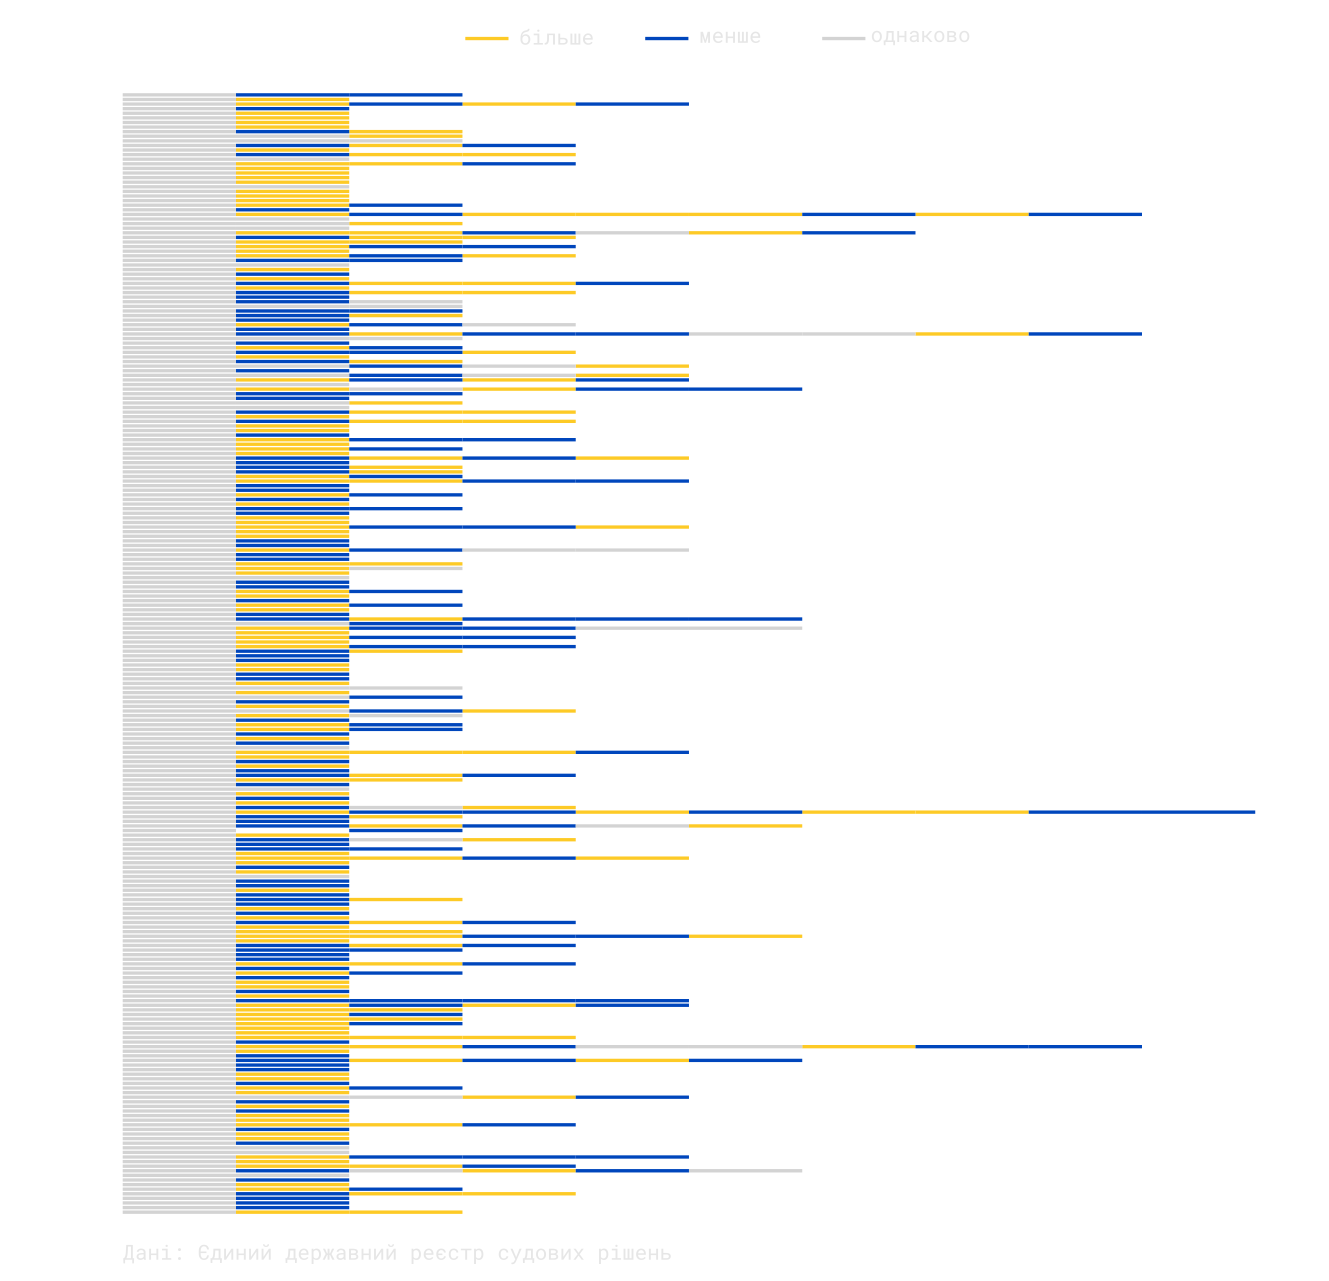
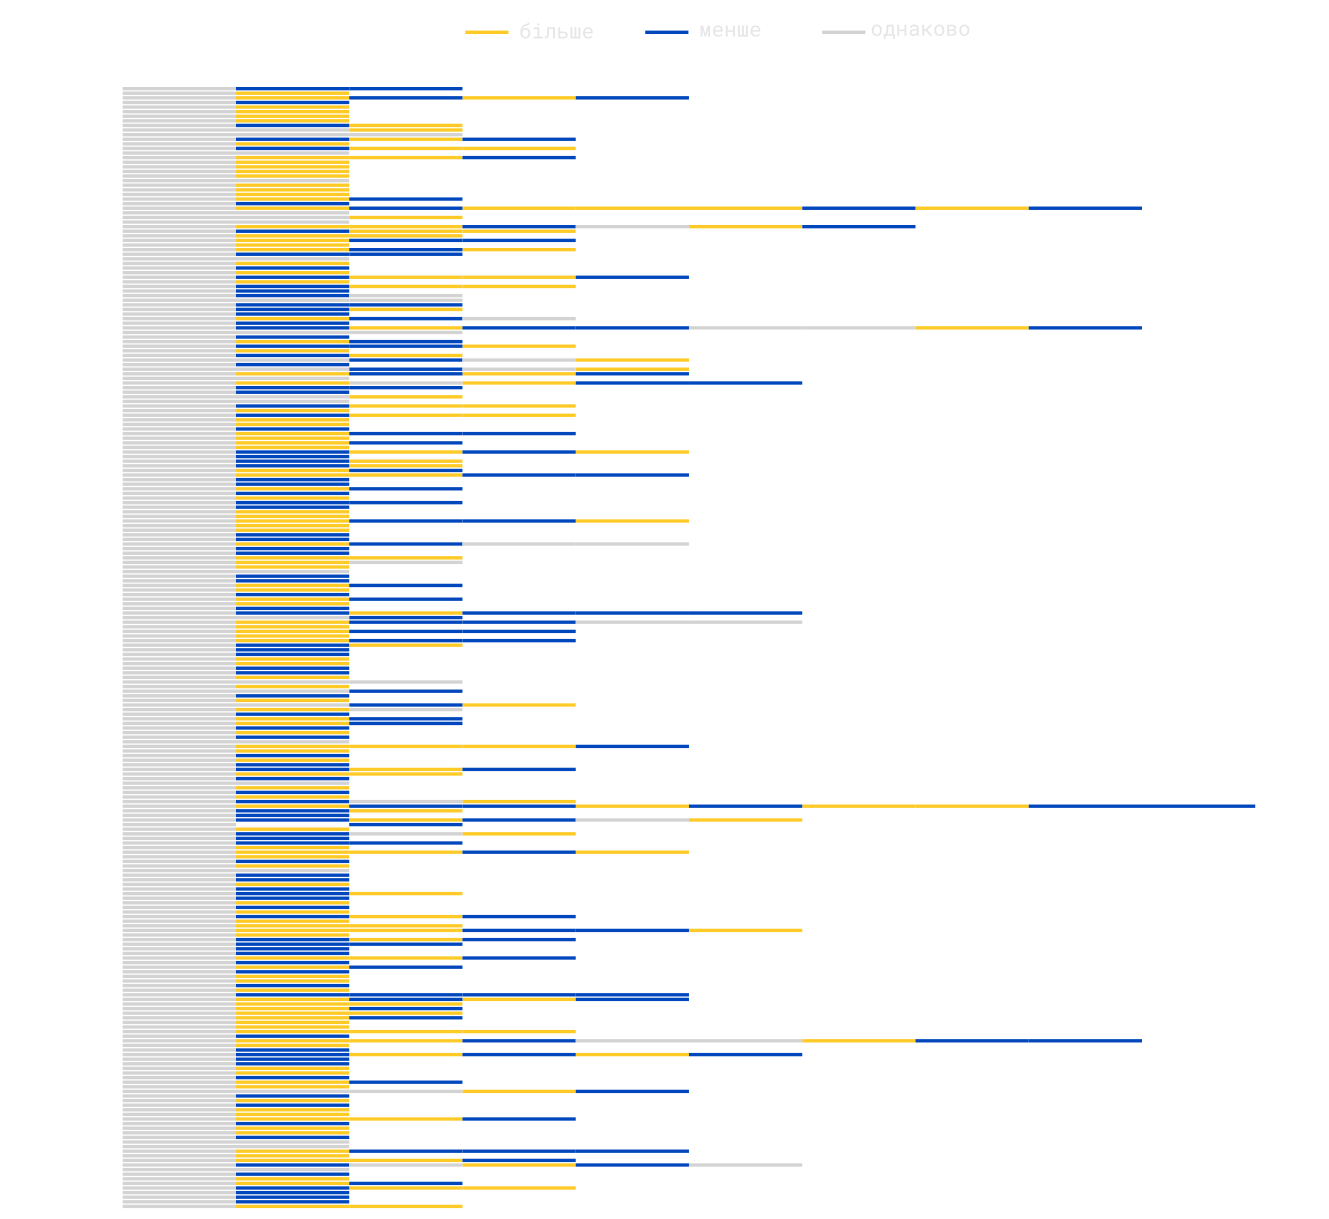
init

diff --git a/index.html b/index.html
@@ -144,9 +144,11 @@
     <h3 class="subtitle green" >Непокаране зло породжує ще більше зло... або менше... або таке саме</h3>
     <p>В багатьох судових рішеннях описані ситуації, коли крадій повертався кілька разів до магазину, щоб украсти знову. Ми вирішили перевірити гіпотезу, чи виносять вдруге на більшу суму, якщо перша крадіжка була вдалою. Але гіпотеза не підтвердилась. Варіантів, коли вдруге виносять більше чи менше майже порівну.</p>
 
-    <!--<p>Один прямокутник - одна крадіжка, вектор лінії знизу-наверх означає, що вдруге винесли більше, зверху-вниз, що винесли менше, довжина лінії (кількість секторів) - кількість разів, коли крадій повертався, щоб вркасти знову.</p>-->
+    <p>Одна лінія - одне судове рішення. Кількість секторів на лінії - кількість разів, коли крадій повертався і крав знову. Колір сектору - порівняння суми крадіжки з попередньою: якщо ця сума більше, лінія буде жовтою; якщо менше - синьою; якщо сума ідентична - білою.</p>
 
     <img src="img/plot.png" style="display: block; width: 60%; margin: auto;"/>
+
+<p>Дані - Єдиний державний реєстр судових рішень</p>
 
 
     <p>Над матеріалом працювали: </p>
